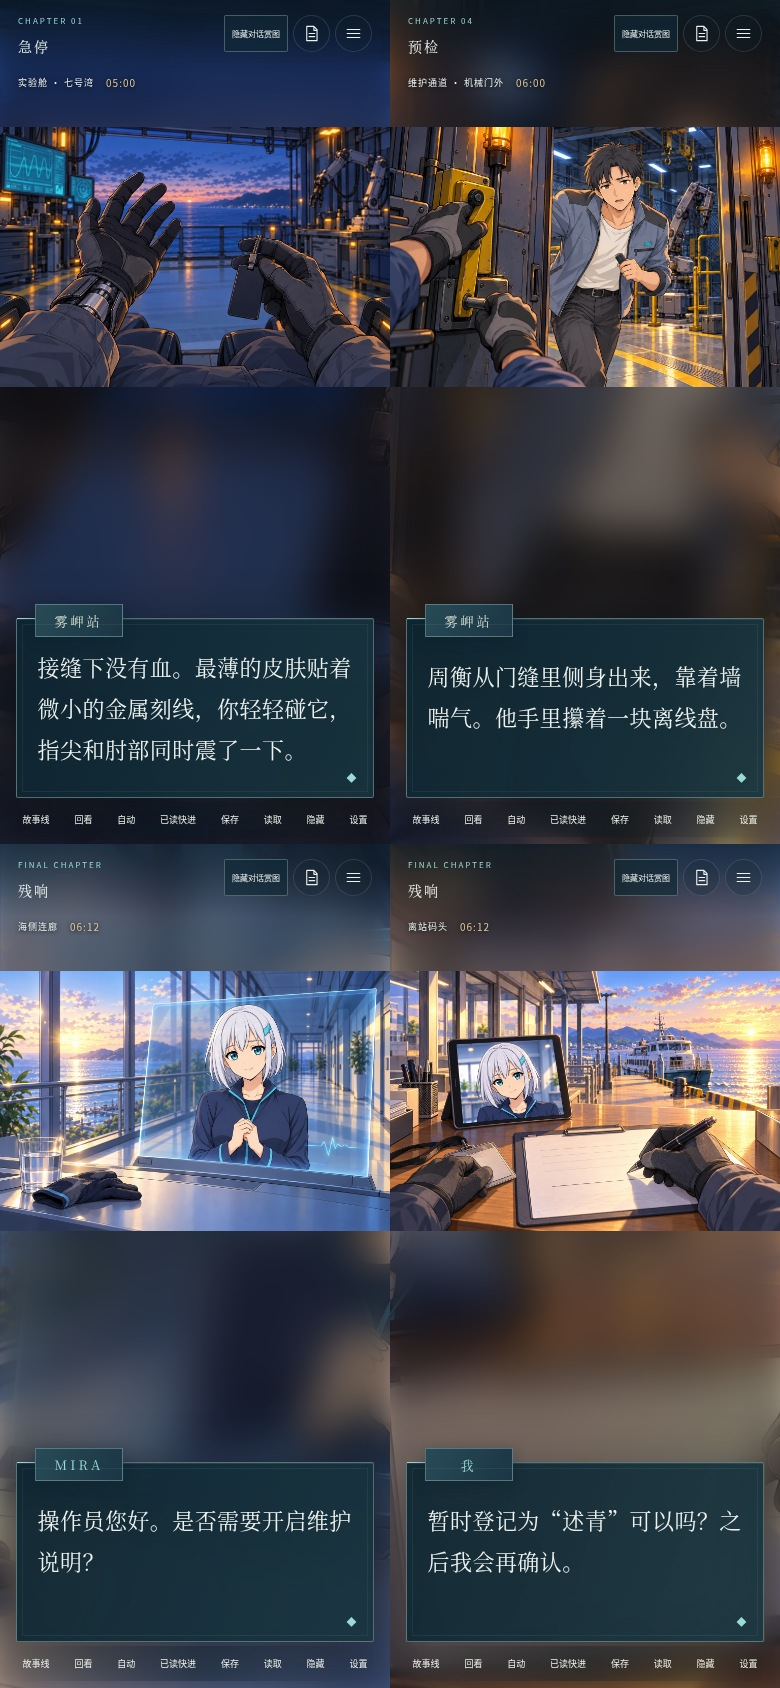
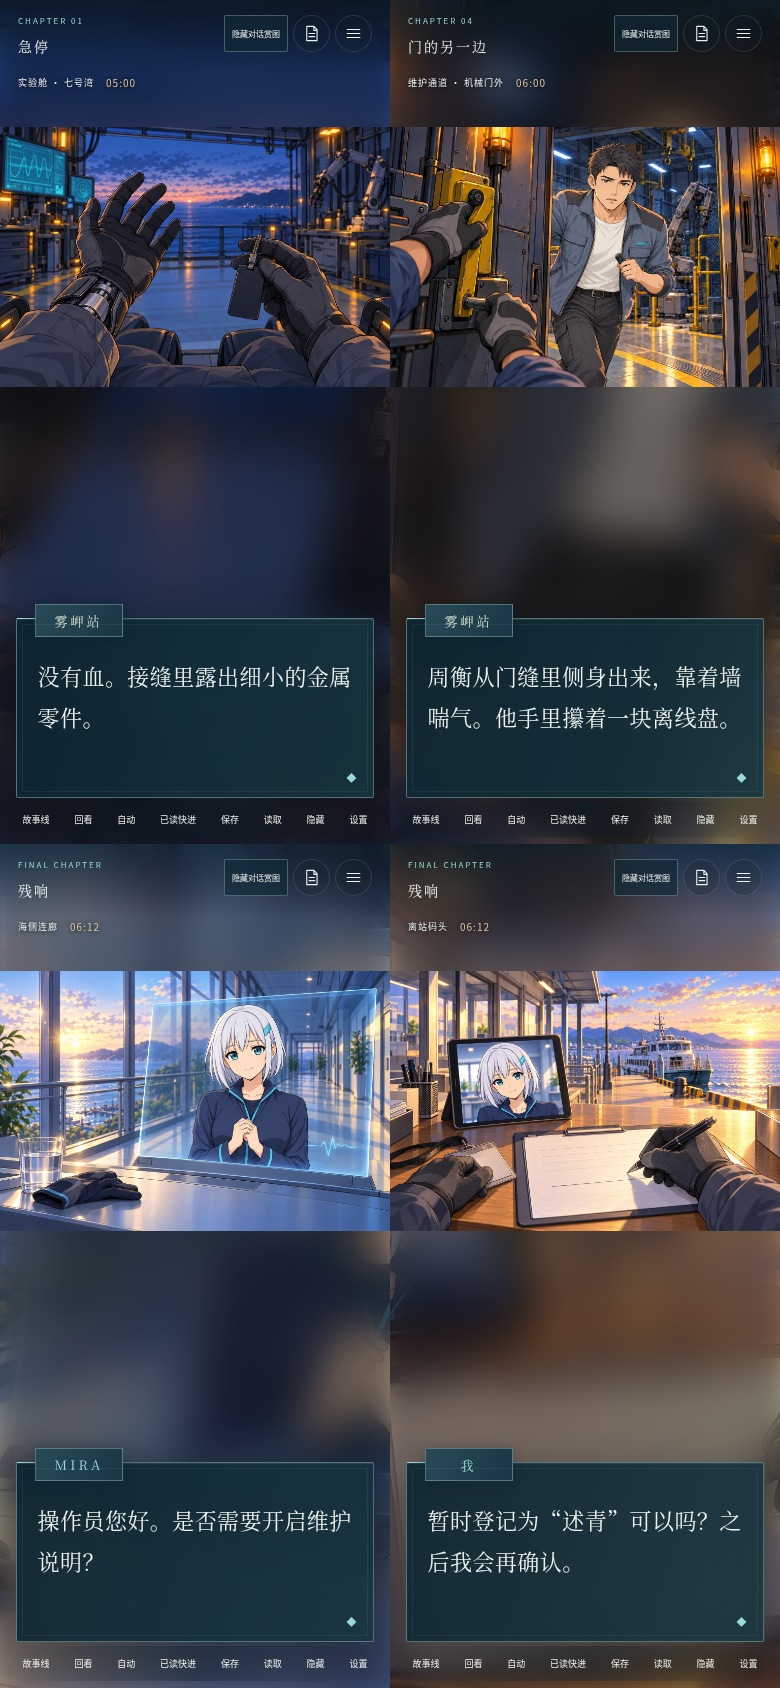
Redesign Zhou as a practical young engineer across portraits and rescue art

Changed region(s): [[0.0308, 0.3697, 0.4615, 0.4621], [0.7077, 0.0924, 0.8615, 0.1848], [0.5231, 0.0, 0.5538, 0.0308]]

diff --git a/index.html b/index.html
@@ -19,5 +19,5 @@
 <section id="endingScreen" class="ending-screen" hidden><span class="eyebrow">END OF THIS ECHO</span><h2 id="endingTitle"></h2><p id="endingSubtitle"></p><div id="endingSummary" class="ending-summary"></div><div class="ending-actions"><button class="primary" data-action="archive">查看档案</button><button data-action="flow">回溯选择</button><button data-action="title">返回标题</button></div><small>你的选择已保存。其他回答，仍在等待另一段清晨。</small></section></main>
 <dialog id="panel" class="panel"><div class="panel-header"><div><span class="eyebrow" id="panelEyebrow"></span><h2 id="panelTitle"></h2></div><button class="icon-button" data-action="close" aria-label="关闭">×</button></div><div id="panelBody" class="panel-body"></div></dialog>
 <dialog id="confirm" class="confirm"><h2 id="confirmTitle"></h2><p id="confirmText"></p><div><button id="confirmCancel">取消</button><button id="confirmOK" class="primary">确认</button></div></dialog>
-<div id="cursorStars" aria-hidden="true"></div><div id="rewardLayer" class="reward-layer" role="status"></div><div id="toast" class="toast" role="status" hidden></div><input id="importFile" type="file" accept="application/json,.json" hidden><noscript><p class="noscript">请启用 JavaScript 以游玩《残响协议》。</p></noscript><script type="module" src="src/app.js?v=3.4.1"></script>
+<div id="cursorStars" aria-hidden="true"></div><div id="rewardLayer" class="reward-layer" role="status"></div><div id="toast" class="toast" role="status" hidden></div><input id="importFile" type="file" accept="application/json,.json" hidden><noscript><p class="noscript">请启用 JavaScript 以游玩《残响协议》。</p></noscript><script type="module" src="src/app.js?v=3.5"></script>
 </body></html>

diff --git a/src/app.js b/src/app.js
@@ -68,7 +68,7 @@ class Game {
 }
 
 try{
- const [story,art]=await Promise.all(['src/story.json?v=3.4','assets/manifest.json?v=3.3'].map(async path=>{const response=await fetch(path);if(!response.ok)throw Error('无法加载 '+path);return response.json();}));
+ const [story,art]=await Promise.all(['src/story.json?v=3.4','assets/manifest.json?v=3.5'].map(async path=>{const response=await fetch(path);if(!response.ok)throw Error('无法加载 '+path);return response.json();}));
  const game=new Game(story,art);
  // Diagnostics are opt-in, kept out of normal play.
  if(new URLSearchParams(location.search).get('debug')==='1')window.__GAME__={game,story,art};

diff --git a/tools/pack_zhou.py b/tools/pack_zhou.py
@@ -1,0 +1,47 @@
+"""Encode inspected Zhou sheets; crop/scale only, no repainting.
+Run after pack_art_expansion.py when rebuilding all production resources.
+"""
+from pathlib import Path
+from PIL import Image
+import numpy as np,json
+ROOT=Path(__file__).resolve().parents[1]
+SOURCE=ROOT/'art/v3-source'
+
+def pack_sheet(name,moods,art):
+    im=Image.open(SOURCE/name).convert('RGBA')
+    assert im.getchannel('A').getextrema()[0]==0,'Sheet must be transparent'
+    width,height=im.size
+    mask=np.asarray(im.getchannel('A'))>40
+    cuts=[0]
+    for n in [1,2]:
+        mid=round(width*n/3);lo=max(0,mid-100);hi=min(width,mid+100)
+        counts=mask[:,lo:hi].sum(axis=0)
+        gaps=np.flatnonzero(counts==0)+lo
+        assert len(gaps),'Figures must have an empty separating column'
+        cuts.append(int(gaps[np.argmin(abs(gaps-mid))]))
+    cuts.append(width)
+    crops=[im.crop((a,0,b,height)) for a,b in zip(cuts,cuts[1:])]
+    boxes=[c.getchannel('A').getbbox() for c in crops]
+    assert all(boxes)
+    # One scale per sheet, preserving relative size and complete silhouettes.
+    factor=min(990/max(b[3]-b[1] for b in boxes),520/max(b[2]-b[0] for b in boxes))
+    for mood,crop,box in zip(moods,crops,boxes):
+        sprite=crop.crop(box)
+        sprite=sprite.resize((round(sprite.width*factor),round(sprite.height*factor)),Image.Resampling.LANCZOS)
+        canvas=Image.new('RGBA',(560,1024));canvas.paste(sprite,((560-sprite.width)//2,1024-sprite.height))
+        path=f'assets/characters/zhou-practical-{mood}.webp'
+        canvas.save(ROOT/path,'WEBP',quality=94,method=6)
+        art['characters']['zhou'][mood]=path
+    print(name,'cuts',cuts,'scale',round(factor,3))
+
+def pack():
+    path=ROOT/'assets/manifest.json';art=json.loads(path.read_text())
+    pack_sheet('zhou-practical-base.png',['neutral','concern','serious'],art)
+    pack_sheet('zhou-practical-states.png',['evasive','admit','wounded'],art)
+    art['characters']['zhou']['smile']=art['characters']['zhou']['neutral']
+    rescue='assets/cgs/rescue-practical.webp'
+    Image.open(SOURCE/'cg-rescue-practical.png').convert('RGB').save(ROOT/rescue,'WEBP',quality=94,method=6)
+    art['cgs']['rescue']['image']=rescue
+    path.write_text(json.dumps(art,ensure_ascii=False,indent=2)+'\n')
+
+if __name__=='__main__':pack()

diff --git a/tools/browser_character.py b/tools/browser_character.py
@@ -13,16 +13,16 @@ with sync_playwright() as p:
  page.evaluate('''()=>{const g=window.__GAME__.game;g.settings.speed=0;g.state.scene='c2_01';g.state.chapter='c2';g.state.beat=5;g.startScene();}''')
  page.wait_for_timeout(1000)
  for mood in ['neutral','concern','serious']:
-  page.evaluate('''mood=>{const g=window.__GAME__.game;g.effects.portrait(document.querySelector('#spriteLeft'),g.art.characters.zhou[mood],'zhou');}''',mood)
+  page.evaluate('''mood=>{const g=window.__GAME__.game;window.zhouMood=mood;g.effects.portrait(document.querySelector('#spriteLeft'),g.art.characters.zhou[mood],'zhou');}''',mood)
   page.wait_for_timeout(500)
-  assert page.locator('#spriteLeft .portrait-main').evaluate('(i)=>i.complete&&i.naturalWidth>0&&i.src.includes("zhou-young")')
-  page.screenshot(path=str(root/'qa'/('zhou-young-'+mood+'.png')))
+  assert page.locator('#spriteLeft .portrait-main').evaluate('(i)=>i.complete&&i.naturalWidth>0&&i.getAttribute("src")===window.__GAME__.game.art.characters.zhou[window.zhouMood]')
+  page.screenshot(path=str(root/'qa'/('zhou-practical-'+mood+'.png')))
  page.evaluate('''()=>{const g=window.__GAME__.game;g.state.scene='c2_03';g.state.beat=0;g.startScene();g.state.beat=g.beats().length-1;g.renderBeat();}''')
  page.wait_for_timeout(600)
  assert page.locator('#spriteLeft.visible .portrait-main').is_visible()
  assert page.locator('#spriteRight.visible .portrait-main').is_visible()
  page.screenshot(path=str(root/'qa/zhou-mira-together.png'))
- page.set_viewport_size({'width':390,'height':844});page.screenshot(path=str(root/'qa/zhou-young-mobile.png'))
+ page.set_viewport_size({'width':390,'height':844});page.screenshot(path=str(root/'qa/zhou-practical-mobile.png'))
  assert page.evaluate('document.documentElement.scrollWidth<=innerWidth')
  assert not errors,errors
  print(json.dumps({'expressions':3,'transparentSpritesLoaded':True,'mobile':True,'errors':errors}));b.close()

diff --git a/tools/pack_art_expansion.py b/tools/pack_art_expansion.py
@@ -72,3 +72,8 @@ if __name__=='__main__':
   for task in tasks:task.result()
  MANIFEST.write_text(json.dumps(art,ensure_ascii=False,indent=2)+'\n')
  print('Packed 12 portrait states, 8 backgrounds/variants, 4 event CGs.',flush=True)
+
+ # Apply the inspected engineer redesign after the shared atlas export.
+ if all((SOURCE/name).exists() for name in ['zhou-practical-base.png','zhou-practical-states.png','cg-rescue-practical.png']):
+  from pack_zhou import pack
+  pack()

diff --git a/docs/ART.md b/docs/ART.md
@@ -5,7 +5,7 @@
 ## 角色与服装
 
 - MIRA：白色短发、青色发夹、深蓝研究制服与青色饰线。她在剧情中通过终端呈现；事件CG明确保留显示屏与移动终端。
-- 周衡：外观24–27岁的黑发青年，无胡茬。灰蓝短款站务工装、深灰肩片、浅色圆领内搭、站务标识；右腕原有绷带保持一致。救援后轻伤增加左袖破损和左前臂包扎，只在相应分支出现。
+- 周衡：外观25–27岁的黑发青年，无胡茬，短发露额、较平直的眉眼、自然肩线。灰蓝实用工装、深灰肩片、双胸袋、浅色圆领内搭、站务标识；右腕原有绷带保持一致。救援后轻伤增加左袖破损和左前臂包扎，只在相应分支出现。姿态以端杯、查看工作文件和自然垂手为主，回避时移开目光，认错时直视玩家。
 - 唐棠：栗色发、植物发夹、黄色开衫、浅色日常内搭与蓝色牛仔裤。问候、身份揭穿与接纳有不同表情和手势；视频通话与现场相见使用不同通信标记。
 - 林述：工作录音使用白色研究外套、深色内搭与工作手套；医疗通信使用浅灰蓝病服，受伤左臂固定在吊带里，只有健康右手作出手势。
 

diff --git a/docs/ART_REVIEW.md b/docs/ART_REVIEW.md
@@ -61,3 +61,9 @@
 ## 剧情文本检查
 
 第三章新增的医疗视频揭示使用病服、左臂吊带与远程通信标记；工作录音继续使用工作服。对白改写后重新运行全部23张立绘与4张CG的桌面、手机场景检查，未发现未使用立绘或JavaScript异常。关键截图：`qa/art/lin-sheet.jpg`、`qa/art/lin-mobile-sheet.jpg`；检查输出不作为游戏资源。
+
+## 周衡造型调整
+
+六张立绘统一为露额短发、较平直的眉眼、灰蓝双胸袋工装和自然工作姿态。回避时移开目光并握工作文件，承认责任时直视玩家；右腕原有绷带保持，新增左前臂伤势仅用于受伤分支。救援CG同步更换相貌与衣服，成功救援时左臂保持未受伤。两张透明原图和救援原图保存在 `art/v3-source/`，`tools/pack_zhou.py` 只拆分、缩放和编码，完整资源打包也会应用这套造型。
+
+重新检查全部23张立绘与4张CG。周衡六种状态在电脑和手机上的实际剧情截图已替换上方检查图，透明边缘、服装、伤势左右、受伤时点与显示加载通过。

diff --git a/docs/QA.md b/docs/QA.md
@@ -20,3 +20,7 @@
 音乐输出增益由0.25提高至3.2，默认音量为55%；保留已有用户音量和静音选择。提示音输出适度提高至0.4，并通过主输出压缩器保留余量。首次音频恢复后立即启动配乐，后台恢复时重新对齐八秒乐句；主题切换淡出旧音符，避免残留叠加。
 
 `python tools/browser_audio.py` 在Chromium中渲染真实Web Audio配乐，并检查界面控制。35%音乐设置下，四秒样本RMS由0.00293提高至0.03834，约+22.32dB；最大音乐音量峰值0.463，快速连续切换峰值0.481，低于削波界限1.0。静音样本为零。首次点击立即启动、静音跨刷新保留、滑块控制、暂停恢复和场景主题切换通过，未报告浏览器异常。
+
+## 周衡资源替换
+
+周衡六张立绘与救援CG换用同一套年轻工程负责人设计。资源使用独立文件名，入口脚本与资源清单更新加载标记，避免缓存继续显示旧造型。静态检查和19项测试通过；全部23张立绘与4张CG重新进行电脑／手机浏览器检查，无JavaScript异常。

diff --git a/README.md b/README.md
@@ -48,6 +48,8 @@ python3 tools/build_story.py
 
 ```sh
 python3 tools/pack_art_expansion.py
+# 单独打包周衡的立绘与救援图：
+python3 tools/pack_zhou.py
 ```
 
 角色、背景与CG由AI生成，并经过剧情场景截图检查、修正和WebP压缩。剧情树交互的参考与实现说明见 [参考记录](docs/REFERENCE.md)，人物与画面的检查记录见 [美术检查](docs/ART_REVIEW.md)，技术验证见 [验证记录](docs/QA.md)。
